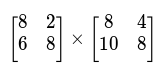
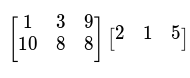
Added matrix-vector multiplication

diff --git a/src/temp.html b/src/temp.html
@@ -7,6 +7,6 @@
 </head>
 <body>
 <div class='latex'>
-<span class="katex-display"><span class="katex"><span class="katex-mathml"><math><semantics><mrow><mrow><mo fence="true">[</mo><mtable><mtr><mtd><mrow><mn>8</mn></mrow></mtd><mtd><mrow><mn>2</mn></mrow></mtd></mtr><mtr><mtd><mrow><mn>6</mn></mrow></mtd><mtd><mrow><mn>8</mn></mrow></mtd></mtr></mtable><mo fence="true">]</mo></mrow><mo>×</mo><mrow><mo fence="true">[</mo><mtable><mtr><mtd><mrow><mn>8</mn></mrow></mtd><mtd><mrow><mn>4</mn></mrow></mtd></mtr><mtr><mtd><mrow><mn>1</mn><mn>0</mn></mrow></mtd><mtd><mrow><mn>8</mn></mrow></mtd></mtr></mtable><mo fence="true">]</mo></mrow></mrow><annotation encoding="application/x-tex">\begin{bmatrix}8 &amp; 2\\6 &amp; 8\end{bmatrix}\times\begin{bmatrix}8 &amp; 4\\10 &amp; 8\end{bmatrix}</annotation></semantics></math></span><span class="katex-html" aria-hidden="true"><span class="strut" style="height:1.45em;"></span><span class="strut bottom" style="height:2.40003em;vertical-align:-0.95003em;"></span><span class="base displaystyle textstyle uncramped"><span class="minner displaystyle textstyle uncramped"><span class="style-wrap reset-textstyle textstyle uncramped" style="top:0em;"><span class="delimsizing size3">[</span></span><span class="mord"><span class="mtable"><span class="col-align-c"><span class="vlist"><span style="top:-0.6099999999999999em;"><span class="fontsize-ensurer reset-size5 size5"><span style="font-size:0em;"></span></span><span class="mord displaystyle textstyle uncramped"><span class="mord mathrm">8</span></span></span><span style="top:0.5900000000000003em;"><span class="fontsize-ensurer reset-size5 size5"><span style="font-size:0em;"></span></span><span class="mord displaystyle textstyle uncramped"><span class="mord mathrm">6</span></span></span><span class="baseline-fix"><span class="fontsize-ensurer reset-size5 size5"><span style="font-size:0em;"></span></span></span></span></span><span class="arraycolsep" style="width:0.5em;"></span><span class="arraycolsep" style="width:0.5em;"></span><span class="col-align-c"><span class="vlist"><span style="top:-0.6099999999999999em;"><span class="fontsize-ensurer reset-size5 size5"><span style="font-size:0em;"></span></span><span class="mord displaystyle textstyle uncramped"><span class="mord mathrm">2</span></span></span><span style="top:0.5900000000000003em;"><span class="fontsize-ensurer reset-size5 size5"><span style="font-size:0em;"></span></span><span class="mord displaystyle textstyle uncramped"><span class="mord mathrm">8</span></span></span><span class="baseline-fix"><span class="fontsize-ensurer reset-size5 size5"><span style="font-size:0em;"></span></span></span></span></span></span></span><span class="style-wrap reset-textstyle textstyle uncramped" style="top:0em;"><span class="delimsizing size3">]</span></span></span><span class="mbin">×</span><span class="minner displaystyle textstyle uncramped"><span class="style-wrap reset-textstyle textstyle uncramped" style="top:0em;"><span class="delimsizing size3">[</span></span><span class="mord"><span class="mtable"><span class="col-align-c"><span class="vlist"><span style="top:-0.6099999999999999em;"><span class="fontsize-ensurer reset-size5 size5"><span style="font-size:0em;"></span></span><span class="mord displaystyle textstyle uncramped"><span class="mord mathrm">8</span></span></span><span style="top:0.5900000000000003em;"><span class="fontsize-ensurer reset-size5 size5"><span style="font-size:0em;"></span></span><span class="mord displaystyle textstyle uncramped"><span class="mord mathrm">1</span><span class="mord mathrm">0</span></span></span><span class="baseline-fix"><span class="fontsize-ensurer reset-size5 size5"><span style="font-size:0em;"></span></span></span></span></span><span class="arraycolsep" style="width:0.5em;"></span><span class="arraycolsep" style="width:0.5em;"></span><span class="col-align-c"><span class="vlist"><span style="top:-0.6099999999999999em;"><span class="fontsize-ensurer reset-size5 size5"><span style="font-size:0em;"></span></span><span class="mord displaystyle textstyle uncramped"><span class="mord mathrm">4</span></span></span><span style="top:0.5900000000000003em;"><span class="fontsize-ensurer reset-size5 size5"><span style="font-size:0em;"></span></span><span class="mord displaystyle textstyle uncramped"><span class="mord mathrm">8</span></span></span><span class="baseline-fix"><span class="fontsize-ensurer reset-size5 size5"><span style="font-size:0em;"></span></span></span></span></span></span></span><span class="style-wrap reset-textstyle textstyle uncramped" style="top:0em;"><span class="delimsizing size3">]</span></span></span></span></span></span></span></div>
+<span class="katex-display"><span class="katex"><span class="katex-mathml"><math><semantics><mrow><mrow><mo fence="true">[</mo><mtable><mtr><mtd><mrow><mn>1</mn></mrow></mtd><mtd><mrow><mn>3</mn></mrow></mtd><mtd><mrow><mn>9</mn></mrow></mtd></mtr><mtr><mtd><mrow><mn>1</mn><mn>0</mn></mrow></mtd><mtd><mrow><mn>8</mn></mrow></mtd><mtd><mrow><mn>8</mn></mrow></mtd></mtr></mtable><mo fence="true">]</mo></mrow><mrow><mo fence="true">[</mo><mtable><mtr><mtd><mrow><mn>2</mn></mrow></mtd><mtd><mrow><mn>1</mn></mrow></mtd><mtd><mrow><mn>5</mn></mrow></mtd></mtr></mtable><mo fence="true">]</mo></mrow></mrow><annotation encoding="application/x-tex">\begin{bmatrix}1 &amp; 3 &amp;9\\10 &amp; 8 &amp; 8\end{bmatrix}\begin{bmatrix}2 &amp; 1 &amp; 5\end{bmatrix}</annotation></semantics></math></span><span class="katex-html" aria-hidden="true"><span class="strut" style="height:1.45em;"></span><span class="strut bottom" style="height:2.40003em;vertical-align:-0.95003em;"></span><span class="base displaystyle textstyle uncramped"><span class="minner displaystyle textstyle uncramped"><span class="style-wrap reset-textstyle textstyle uncramped" style="top:0em;"><span class="delimsizing size3">[</span></span><span class="mord"><span class="mtable"><span class="col-align-c"><span class="vlist"><span style="top:-0.6099999999999999em;"><span class="fontsize-ensurer reset-size5 size5"><span style="font-size:0em;"></span></span><span class="mord displaystyle textstyle uncramped"><span class="mord mathrm">1</span></span></span><span style="top:0.5900000000000003em;"><span class="fontsize-ensurer reset-size5 size5"><span style="font-size:0em;"></span></span><span class="mord displaystyle textstyle uncramped"><span class="mord mathrm">1</span><span class="mord mathrm">0</span></span></span><span class="baseline-fix"><span class="fontsize-ensurer reset-size5 size5"><span style="font-size:0em;"></span></span></span></span></span><span class="arraycolsep" style="width:0.5em;"></span><span class="arraycolsep" style="width:0.5em;"></span><span class="col-align-c"><span class="vlist"><span style="top:-0.6099999999999999em;"><span class="fontsize-ensurer reset-size5 size5"><span style="font-size:0em;"></span></span><span class="mord displaystyle textstyle uncramped"><span class="mord mathrm">3</span></span></span><span style="top:0.5900000000000003em;"><span class="fontsize-ensurer reset-size5 size5"><span style="font-size:0em;"></span></span><span class="mord displaystyle textstyle uncramped"><span class="mord mathrm">8</span></span></span><span class="baseline-fix"><span class="fontsize-ensurer reset-size5 size5"><span style="font-size:0em;"></span></span></span></span></span><span class="arraycolsep" style="width:0.5em;"></span><span class="arraycolsep" style="width:0.5em;"></span><span class="col-align-c"><span class="vlist"><span style="top:-0.6099999999999999em;"><span class="fontsize-ensurer reset-size5 size5"><span style="font-size:0em;"></span></span><span class="mord displaystyle textstyle uncramped"><span class="mord mathrm">9</span></span></span><span style="top:0.5900000000000003em;"><span class="fontsize-ensurer reset-size5 size5"><span style="font-size:0em;"></span></span><span class="mord displaystyle textstyle uncramped"><span class="mord mathrm">8</span></span></span><span class="baseline-fix"><span class="fontsize-ensurer reset-size5 size5"><span style="font-size:0em;"></span></span></span></span></span></span></span><span class="style-wrap reset-textstyle textstyle uncramped" style="top:0em;"><span class="delimsizing size3">]</span></span></span><span class="minner displaystyle textstyle uncramped"><span class="style-wrap reset-textstyle textstyle uncramped" style="top:0em;"><span class="delimsizing size1">[</span></span><span class="mord"><span class="mtable"><span class="col-align-c"><span class="vlist"><span style="top:-0.010000000000000009em;"><span class="fontsize-ensurer reset-size5 size5"><span style="font-size:0em;"></span></span><span class="mord displaystyle textstyle uncramped"><span class="mord mathrm">2</span></span></span><span class="baseline-fix"><span class="fontsize-ensurer reset-size5 size5"><span style="font-size:0em;"></span></span></span></span></span><span class="arraycolsep" style="width:0.5em;"></span><span class="arraycolsep" style="width:0.5em;"></span><span class="col-align-c"><span class="vlist"><span style="top:-0.010000000000000009em;"><span class="fontsize-ensurer reset-size5 size5"><span style="font-size:0em;"></span></span><span class="mord displaystyle textstyle uncramped"><span class="mord mathrm">1</span></span></span><span class="baseline-fix"><span class="fontsize-ensurer reset-size5 size5"><span style="font-size:0em;"></span></span></span></span></span><span class="arraycolsep" style="width:0.5em;"></span><span class="arraycolsep" style="width:0.5em;"></span><span class="col-align-c"><span class="vlist"><span style="top:-0.010000000000000009em;"><span class="fontsize-ensurer reset-size5 size5"><span style="font-size:0em;"></span></span><span class="mord displaystyle textstyle uncramped"><span class="mord mathrm">5</span></span></span><span class="baseline-fix"><span class="fontsize-ensurer reset-size5 size5"><span style="font-size:0em;"></span></span></span></span></span></span></span><span class="style-wrap reset-textstyle textstyle uncramped" style="top:0em;"><span class="delimsizing size1">]</span></span></span></span></span></span></span></div>
 </body>
 </html>

diff --git a/src/skills/matrix_vector_multiplication.cpp b/src/skills/matrix_vector_multiplication.cpp
@@ -1,0 +1,35 @@
+#include <iostream>
+#include <random>
+
+std::string* generate_matrix_vector_multiplication_problem() 
+{
+        int min = 1;
+        int max = 10;
+
+        std::random_device rd;
+        std::mt19937 gen(rd());
+        std::uniform_int_distribution<> distrib(min, max);
+
+        int first_number = distrib(gen);
+        int second_number = distrib(gen);
+        int third_number = distrib(gen);
+        int fourth_number = distrib(gen);
+        int fifth_number = distrib(gen);
+        int sixth_number = distrib(gen);
+        int seventh_number = distrib(gen);
+        int eighth_number = distrib(gen);
+        int ninth_number = distrib(gen);
+ 
+        int determinant = (first_number * fourth_number) - (second_number * third_number);
+
+        std::string problem = "\\begin{bmatrix}" + std::to_string(first_number) + " & " + std::to_string(second_number) + " &" + std::to_string(third_number)
+                + "\\\\" + std::to_string(fourth_number) + " & " + std::to_string(fifth_number) + " & " + std::to_string(sixth_number) + "\\end{bmatrix}" +  
+                "\\begin{bmatrix}" + std::to_string(seventh_number) + " & " + std::to_string(eighth_number) + " & " + std::to_string(ninth_number) + "\\end{bmatrix}";
+        std::string solution = "[" + std::to_string(first_number*seventh_number + second_number*eighth_number + third_number*ninth_number) 
+                + "," + std::to_string(fourth_number*seventh_number + fifth_number*eighth_number + sixth_number*ninth_number) + "]";
+        std::string* returnValue = new std::string[2];
+        returnValue[0] = problem;
+        returnValue[1] = solution;
+
+        return returnValue;
+}

diff --git a/src/backend.cpp b/src/backend.cpp
@@ -16,6 +16,7 @@
 #include "skills/cos_values.h"
 #include "skills/tan_values.h"
 #include "skills/two_by_two_matrix_multiplication.h"
+#include "skills/matrix_vector_multiplication.h"
 #include "db.h"
 #include "fsrs.h"
 #include "latexpp/latex.hpp"
@@ -193,7 +194,9 @@ std::string* generate_problem(int skillID)
                 case 13:
                         problem_and_solution = generate_two_by_two_matrix_multiplication_problem();
                         break;
-              
+                case 14:
+                        problem_and_solution = generate_matrix_vector_multiplication_problem();
+                        break;
                 default:
                         throw std::invalid_argument("generate problem eceived invalid skillID");
                         break;

diff --git a/src/db.cpp b/src/db.cpp
@@ -74,7 +74,8 @@ int insert_default_values()
                    "INSERT INTO SKILL VALUES(10, 'Sin Values', -1, -1, -1, -1, 10);"
                    "INSERT INTO SKILL VALUES(11, 'Cos Values', -1, -1, -1, -1, 10);"
                    "INSERT INTO SKILL VALUES(12, 'Tan Values', -1, -1, -1, -1, 10);"
-                   "INSERT INTO SKILL VALUES(13, '2x2 Matrix Multiplication Multiplication', -1, -1, -1, -1, 10);");
+                   "INSERT INTO SKILL VALUES(13, '2x2 Matrix Multiplication', -1, -1, -1, -1, 10);"
+                   "INSERT INTO SKILL VALUES(14, 'Matrix Vector Multiplication', -1, -1, -1, -1, 10);");
 
         int exit = 0;
         exit = sqlite3_open("../data/manki.db", &DB);

diff --git a/src/skills/matrix_vector_multiplication.h b/src/skills/matrix_vector_multiplication.h
@@ -1,0 +1,2 @@
+#pragma once
+std::string* generate_matrix_vector_multiplication_problem();
